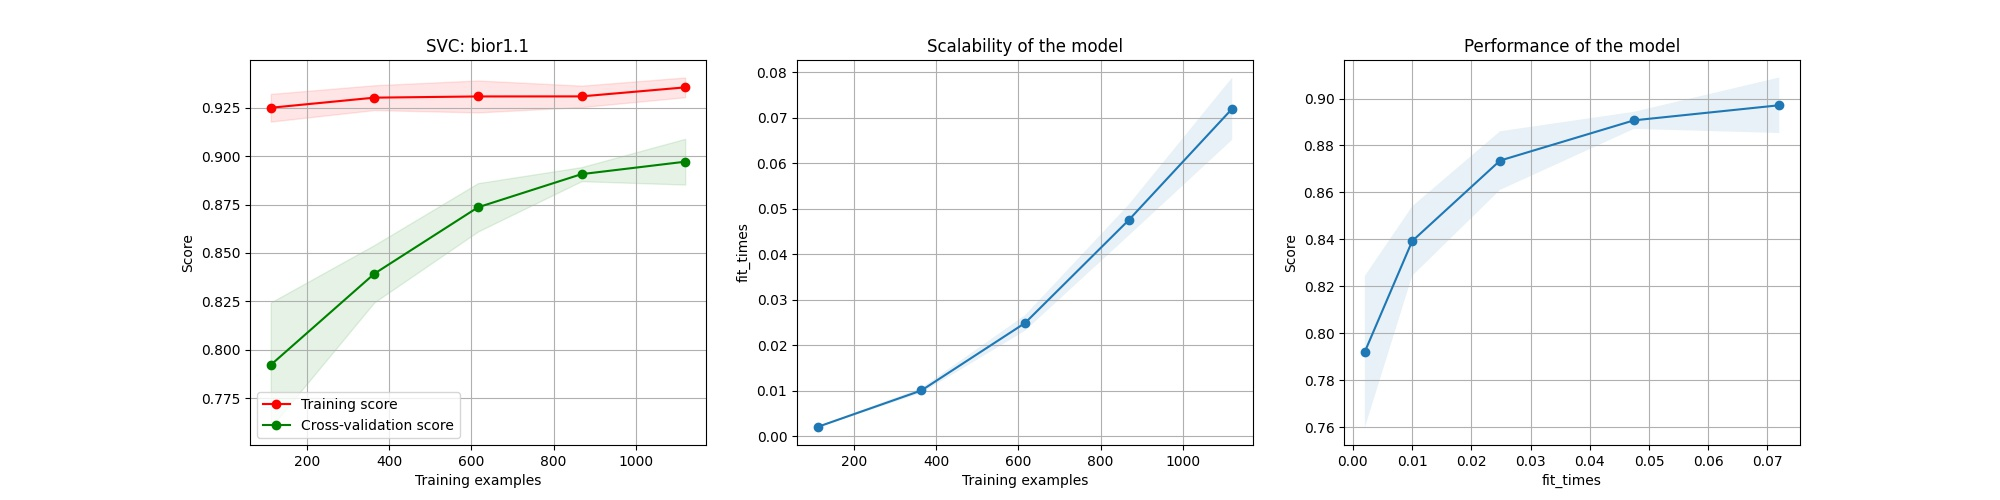
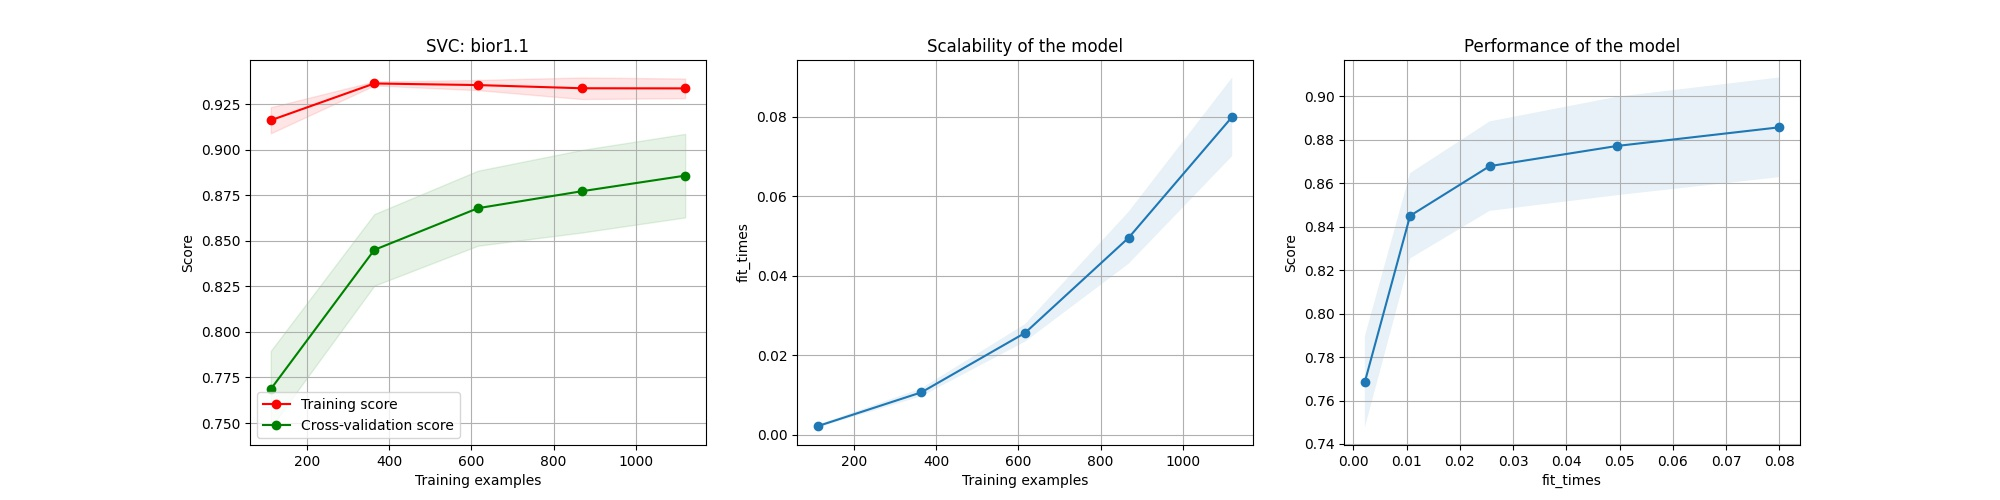
add all discrete wavelets

diff --git a/processingutils/wavelettransform.py b/processingutils/wavelettransform.py
@@ -29,9 +29,9 @@ bior_3 = [
 ]
 
 waves = []
-waves.extend(bior_1)
-waves.extend(bior_2)
-waves.extend(bior_3)
+wave_fam = pywt.wavelist(kind='discrete')
+for fam in wave_fam:
+    waves.append(fam)
 
 
 def _normalise(frame, min: int = 0, max: int = 255):
@@ -70,7 +70,7 @@ def _transform_single(frame, wavelet: str = 'bior3.9', mode: str = 'sym', level:
     :return: list in the form
         [cAn, (cHn, cVn, cDn), … (cH1, cV1, cD1)]
     """
-    wavelet = pywt.Wavelet(wavelet)
+    # wavelet = pywt.ContinuousWavelet(wavelet)
     arr = pywt.wavedec2(np.array(frame), wavelet, mode='periodization', level=level)
     arr[0] /= np.abs(arr[0]).max()
     for detail_level in range(level):

diff --git a/main.py b/main.py
@@ -78,7 +78,6 @@ from processingutils.wavelettransform import hist_single, hist
 single_frame = images[0]
 hist_single(single_frame, show=True)
 count = hist(images, show=True)
-quit()
 
 
 def plot_learning_curve(estimator, title, X, y, axes=None, ylim=None, cv=None,
